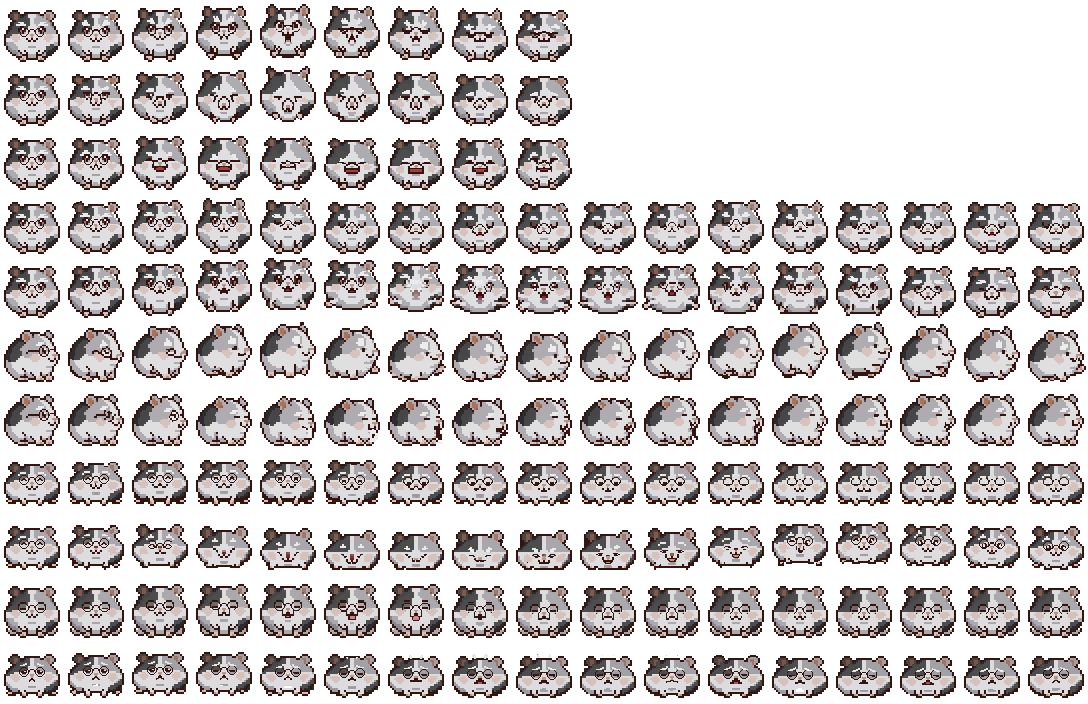
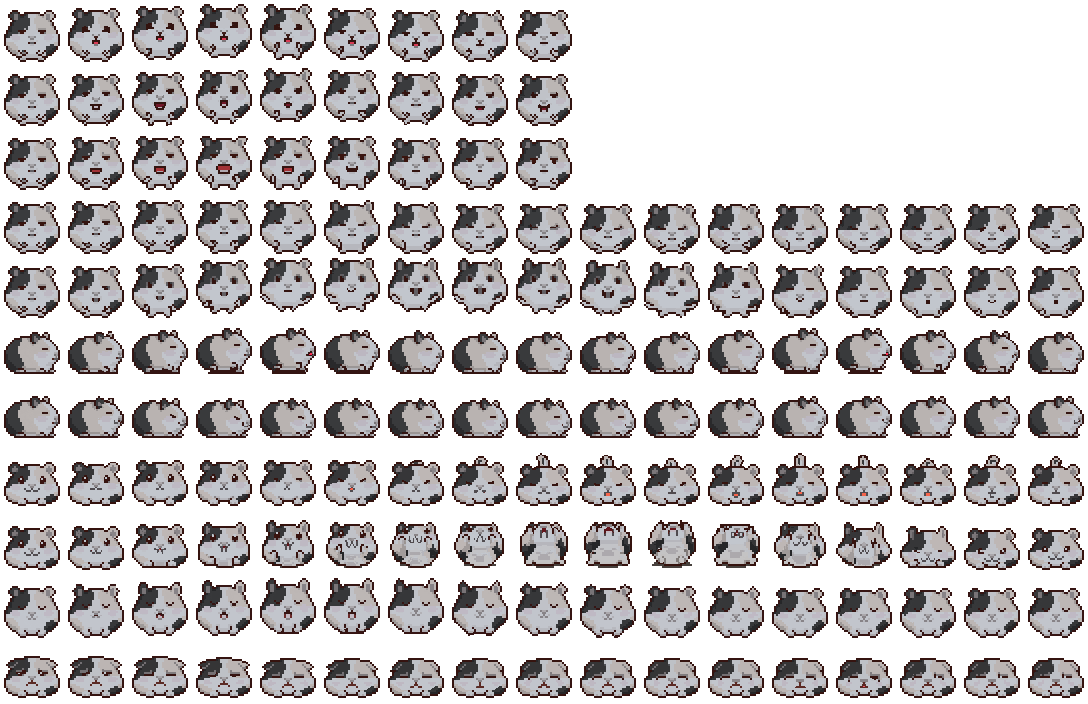
Старички: седые копии взрослых (1.27.0) (#85)
Claude-Session: https://claude.ai/code/session_01Xy48j64qLpetrE3qonuyEK

diff --git a/src/render/petMeta.ts b/src/render/petMeta.ts
@@ -27,19 +27,19 @@ export const PET_META: Readonly<Record<string, SheetMeta>> = {
   cat_child: { cell: 64, cols: 17, rows: ['idle', 'sleep', 'eat', 'idle_v3', 'catch_v3', 'walk_v3', 'eat_v3', 'lie_v3', 'roll_v3', 'sleep_v3', 'sad_v3'], feet: 62, left: 6, right: 58, rowInfo: { idle_v3: { feet: 62, left: 8, right: 60, frames: 17 }, catch_v3: { feet: 62, left: 8, right: 60, frames: 17 }, walk_v3: { feet: 62, left: 2, right: 60, frames: 17 }, eat_v3: { feet: 62, left: 0, right: 64, frames: 17 }, lie_v3: { feet: 60, left: 4, right: 60, frames: 17 }, roll_v3: { feet: 60, left: 2, right: 62, frames: 17 }, sleep_v3: { feet: 51, left: 8, right: 56, frames: 17 }, sad_v3: { feet: 60, left: 2, right: 62, frames: 17 } } },
   cat_teen: { cell: 64, cols: 17, rows: ['idle', 'sleep', 'eat', 'idle_v3', 'catch_v3', 'walk_v3', 'eat_v3', 'lie_v3', 'roll_v3', 'sleep_v3', 'sad_v3'], feet: 63, left: 10, right: 58, rowInfo: { idle_v3: { feet: 63, left: 13, right: 56, frames: 17 }, catch_v3: { feet: 63, left: 7, right: 59, frames: 17 }, walk_v3: { feet: 56, left: 2, right: 61, frames: 17 }, eat_v3: { feet: 56, left: 2, right: 64, frames: 17 }, lie_v3: { feet: 52, left: 2, right: 63, frames: 17 }, roll_v3: { feet: 52, left: 1, right: 64, frames: 17 }, sleep_v3: { feet: 55, left: 4, right: 60, frames: 17 }, sad_v3: { feet: 52, left: 2, right: 63, frames: 17 } } },
   cat_adultNaughty: { cell: 64, cols: 17, rows: ['idle', 'sleep', 'eat', 'idle_v3', 'catch_v3', 'walk_v3', 'eat_v3', 'lie_v3', 'roll_v3', 'sleep_v3', 'sad_v3'], feet: 62, left: 2, right: 62, rowInfo: { idle_v3: { feet: 62, left: 2, right: 62, frames: 17 }, catch_v3: { feet: 62, left: 2, right: 60, frames: 17 }, walk_v3: { feet: 62, left: 2, right: 60, frames: 17 }, eat_v3: { feet: 62, left: 2, right: 62, frames: 17 }, lie_v3: { feet: 56, left: 4, right: 62, frames: 17 }, roll_v3: { feet: 56, left: 4, right: 64, frames: 17 }, sleep_v3: { feet: 58, left: 2, right: 62, frames: 17 }, sad_v3: { feet: 56, left: 2, right: 64, frames: 17 } } },
-  cat_elder: { cell: 64, cols: 17, rows: ['idle', 'sleep', 'eat', 'idle_v3', 'catch_v3', 'walk_v3', 'eat_v3', 'lie_v3', 'roll_v3', 'sleep_v3', 'sad_v3'], feet: 62, left: 2, right: 58, rowInfo: { idle_v3: { feet: 62, left: 2, right: 62, frames: 17 }, catch_v3: { feet: 62, left: 0, right: 60, frames: 17 }, walk_v3: { feet: 60, left: 4, right: 60, frames: 17 }, eat_v3: { feet: 60, left: 2, right: 60, frames: 17 }, lie_v3: { feet: 54, left: 2, right: 62, frames: 17 }, roll_v3: { feet: 54, left: 2, right: 64, frames: 17 }, sleep_v3: { feet: 56, left: 2, right: 62, frames: 17 }, sad_v3: { feet: 54, left: 2, right: 63, frames: 17 } } },
+  cat_elder: { cell: 64, cols: 17, rows: ['idle', 'sleep', 'eat', 'idle_v3', 'catch_v3', 'walk_v3', 'eat_v3', 'lie_v3', 'roll_v3', 'sleep_v3', 'sad_v3'], feet: 62, left: 2, right: 62, rowInfo: { idle_v3: { feet: 62, left: 2, right: 62, frames: 17 }, catch_v3: { feet: 62, left: 0, right: 62, frames: 17 }, walk_v3: { feet: 62, left: 2, right: 60, frames: 17 }, eat_v3: { feet: 62, left: 0, right: 64, frames: 17 }, lie_v3: { feet: 54, left: 2, right: 64, frames: 17 }, roll_v3: { feet: 54, left: 2, right: 62, frames: 17 }, sleep_v3: { feet: 54, left: 2, right: 60, frames: 17 }, sad_v3: { feet: 54, left: 2, right: 64, frames: 17 } } },
   cat_adultNormal: { cell: 64, cols: 17, rows: ['idle', 'sleep', 'eat', 'idle_v3', 'catch_v3', 'walk_v3', 'eat_v3', 'lie_v3', 'roll_v3', 'sleep_v3', 'sad_v3'], feet: 62, left: 2, right: 62, rowInfo: { idle_v3: { feet: 62, left: 2, right: 62, frames: 17 }, catch_v3: { feet: 62, left: 0, right: 62, frames: 17 }, walk_v3: { feet: 62, left: 2, right: 60, frames: 17 }, eat_v3: { feet: 62, left: 0, right: 64, frames: 17 }, lie_v3: { feet: 54, left: 2, right: 64, frames: 17 }, roll_v3: { feet: 54, left: 2, right: 62, frames: 17 }, sleep_v3: { feet: 54, left: 2, right: 60, frames: 17 }, sad_v3: { feet: 54, left: 2, right: 64, frames: 17 } } },
   blob_baby: { cell: 64, cols: 17, rows: ['idle', 'sleep', 'eat', 'idle_v3', 'catch_v3', 'walk_v3', 'eat_v3', 'lie_v3', 'roll_v3', 'sleep_v3', 'sad_v3'], feet: 52, left: 17, right: 47, rowInfo: { idle_v3: { feet: 52, left: 18, right: 46, frames: 17 }, catch_v3: { feet: 52, left: 13, right: 49, frames: 17 }, walk_v3: { feet: 52, left: 12, right: 52, frames: 17 }, eat_v3: { feet: 52, left: 11, right: 54, frames: 17 }, lie_v3: { feet: 52, left: 14, right: 48, frames: 17 }, roll_v3: { feet: 52, left: 14, right: 48, frames: 17 }, sleep_v3: { feet: 52, left: 18, right: 46, frames: 17 }, sad_v3: { feet: 52, left: 14, right: 48, frames: 17 } } },
   blob_child: { cell: 64, cols: 17, rows: ['idle', 'sleep', 'eat', 'idle_v3', 'catch_v3', 'walk_v3', 'eat_v3', 'lie_v3', 'roll_v3', 'sleep_v3', 'sad_v3'], feet: 52, left: 10, right: 54, rowInfo: { idle_v3: { feet: 52, left: 14, right: 50, frames: 17 }, catch_v3: { feet: 54, left: 9, right: 54, frames: 17 }, walk_v3: { feet: 52, left: 10, right: 54, frames: 17 }, eat_v3: { feet: 52, left: 8, right: 64, frames: 17 }, lie_v3: { feet: 52, left: 12, right: 52, frames: 17 }, roll_v3: { feet: 52, left: 10, right: 54, frames: 17 }, sleep_v3: { feet: 52, left: 12, right: 52, frames: 17 }, sad_v3: { feet: 52, left: 10, right: 54, frames: 17 } } },
   blob_teen: { cell: 64, cols: 17, rows: ['idle', 'sleep', 'eat', 'idle_v3', 'catch_v3', 'walk_v3', 'eat_v3', 'lie_v3', 'roll_v3', 'sleep_v3', 'sad_v3'], feet: 62, left: 10, right: 54, rowInfo: { idle_v3: { feet: 62, left: 10, right: 54, frames: 17 }, catch_v3: { feet: 62, left: 8, right: 56, frames: 17 }, walk_v3: { feet: 62, left: 8, right: 56, frames: 17 }, eat_v3: { feet: 62, left: 8, right: 58, frames: 17 }, lie_v3: { feet: 56, left: 8, right: 56, frames: 17 }, roll_v3: { feet: 57, left: 6, right: 58, frames: 17 }, sleep_v3: { feet: 54, left: 6, right: 58, frames: 17 }, sad_v3: { feet: 56, left: 6, right: 58, frames: 17 } } },
   blob_adultNaughty: { cell: 64, cols: 17, rows: ['idle', 'sleep', 'eat', 'idle_v3', 'catch_v3', 'walk_v3', 'eat_v3', 'lie_v3', 'roll_v3', 'sleep_v3', 'sad_v3'], feet: 62, left: 4, right: 60, rowInfo: { idle_v3: { feet: 62, left: 4, right: 60, frames: 17 }, catch_v3: { feet: 62, left: 2, right: 62, frames: 17 }, walk_v3: { feet: 62, left: 4, right: 60, frames: 17 }, eat_v3: { feet: 62, left: 4, right: 60, frames: 17 }, lie_v3: { feet: 58, left: 2, right: 62, frames: 17 }, roll_v3: { feet: 58, left: 2, right: 62, frames: 17 }, sleep_v3: { feet: 58, left: 4, right: 60, frames: 17 }, sad_v3: { feet: 58, left: 2, right: 62, frames: 17 } } },
-  blob_elder: { cell: 64, cols: 17, rows: ['idle', 'sleep', 'eat', 'idle_v3', 'catch_v3', 'walk_v3', 'eat_v3', 'lie_v3', 'roll_v3', 'sleep_v3', 'sad_v3'], feet: 62, left: 4, right: 60, rowInfo: { idle_v3: { feet: 62, left: 4, right: 60, frames: 17 }, catch_v3: { feet: 62, left: 2, right: 62, frames: 17 }, walk_v3: { feet: 62, left: 4, right: 62, frames: 17 }, eat_v3: { feet: 62, left: 4, right: 60, frames: 17 }, lie_v3: { feet: 58, left: 4, right: 60, frames: 17 }, roll_v3: { feet: 58, left: 4, right: 60, frames: 17 }, sleep_v3: { feet: 62, left: 4, right: 60, frames: 17 }, sad_v3: { feet: 58, left: 4, right: 60, frames: 17 } } },
+  blob_elder: { cell: 64, cols: 17, rows: ['idle', 'sleep', 'eat', 'idle_v3', 'catch_v3', 'walk_v3', 'eat_v3', 'lie_v3', 'roll_v3', 'sleep_v3', 'sad_v3'], feet: 62, left: 4, right: 60, rowInfo: { idle_v3: { feet: 62, left: 4, right: 60, frames: 17 }, catch_v3: { feet: 62, left: 4, right: 60, frames: 17 }, walk_v3: { feet: 54, left: 4, right: 60, frames: 17 }, eat_v3: { feet: 54, left: 4, right: 60, frames: 17 }, lie_v3: { feet: 58, left: 4, right: 60, frames: 17 }, roll_v3: { feet: 58, left: 4, right: 60, frames: 17 }, sleep_v3: { feet: 62, left: 4, right: 60, frames: 17 }, sad_v3: { feet: 58, left: 4, right: 60, frames: 17 } } },
   blob_adultNormal: { cell: 64, cols: 17, rows: ['idle', 'sleep', 'eat', 'idle_v3', 'catch_v3', 'walk_v3', 'eat_v3', 'lie_v3', 'roll_v3', 'sleep_v3', 'sad_v3'], feet: 62, left: 4, right: 60, rowInfo: { idle_v3: { feet: 62, left: 4, right: 60, frames: 17 }, catch_v3: { feet: 62, left: 4, right: 60, frames: 17 }, walk_v3: { feet: 54, left: 4, right: 60, frames: 17 }, eat_v3: { feet: 54, left: 4, right: 60, frames: 17 }, lie_v3: { feet: 58, left: 4, right: 60, frames: 17 }, roll_v3: { feet: 58, left: 4, right: 60, frames: 17 }, sleep_v3: { feet: 62, left: 4, right: 60, frames: 17 }, sad_v3: { feet: 58, left: 4, right: 60, frames: 17 } } },
   dog_baby: { cell: 64, cols: 17, rows: ['idle', 'sleep', 'eat', 'idle_v3', 'catch_v3', 'walk_v3', 'eat_v3', 'lie_v3', 'roll_v3', 'sleep_v3', 'sad_v3'], feet: 64, left: 2, right: 62, rowInfo: { idle_v3: { feet: 64, left: 4, right: 60, frames: 17 }, catch_v3: { feet: 64, left: 4, right: 60, frames: 17 }, walk_v3: { feet: 56, left: 4, right: 60, frames: 17 }, eat_v3: { feet: 56, left: 4, right: 58, frames: 17 }, lie_v3: { feet: 53, left: 10, right: 56, frames: 17 }, roll_v3: { feet: 53, left: 6, right: 57, frames: 17 }, sleep_v3: { feet: 52, left: 6, right: 58, frames: 17 }, sad_v3: { feet: 50, left: 8, right: 58, frames: 17 } } },
   dog_child: { cell: 64, cols: 17, rows: ['idle', 'sleep', 'eat', 'idle_v3', 'catch_v3', 'walk_v3', 'eat_v3', 'lie_v3', 'roll_v3', 'sleep_v3', 'sad_v3'], feet: 55, left: 11, right: 53, rowInfo: { idle_v3: { feet: 55, left: 13, right: 52, frames: 17 }, catch_v3: { feet: 55, left: 12, right: 52, frames: 17 }, walk_v3: { feet: 55, left: 8, right: 55, frames: 17 }, eat_v3: { feet: 55, left: 7, right: 57, frames: 17 }, lie_v3: { feet: 54, left: 7, right: 56, frames: 17 }, roll_v3: { feet: 54, left: 6, right: 59, frames: 17 }, sleep_v3: { feet: 48, left: 7, right: 56, frames: 17 }, sad_v3: { feet: 54, left: 6, right: 54, frames: 17 } } },
   dog_teen: { cell: 64, cols: 17, rows: ['idle', 'sleep', 'eat', 'idle_v3', 'catch_v3', 'walk_v3', 'eat_v3', 'lie_v3', 'roll_v3', 'sleep_v3', 'sad_v3'], feet: 64, left: 8, right: 56, rowInfo: { idle_v3: { feet: 64, left: 8, right: 56, frames: 17 }, catch_v3: { feet: 64, left: 6, right: 58, frames: 17 }, walk_v3: { feet: 60, left: 0, right: 62, frames: 17 }, eat_v3: { feet: 60, left: 0, right: 64, frames: 17 }, lie_v3: { feet: 54, left: 4, right: 62, frames: 17 }, roll_v3: { feet: 54, left: 2, right: 62, frames: 17 }, sleep_v3: { feet: 56, left: 4, right: 60, frames: 17 }, sad_v3: { feet: 54, left: 4, right: 62, frames: 17 } } },
   dog_adultNaughty: { cell: 64, cols: 17, rows: ['idle', 'sleep', 'eat', 'idle_v3', 'catch_v3', 'walk_v3', 'eat_v3', 'lie_v3', 'roll_v3', 'sleep_v3', 'sad_v3'], feet: 64, left: 2, right: 62, rowInfo: { idle_v3: { feet: 64, left: 2, right: 62, frames: 17 }, catch_v3: { feet: 64, left: 2, right: 62, frames: 17 }, walk_v3: { feet: 60, left: 4, right: 58, frames: 17 }, eat_v3: { feet: 60, left: 2, right: 64, frames: 17 }, lie_v3: { feet: 56, left: 2, right: 64, frames: 17 }, roll_v3: { feet: 56, left: 2, right: 62, frames: 17 }, sleep_v3: { feet: 54, left: 4, right: 58, frames: 17 }, sad_v3: { feet: 56, left: 2, right: 62, frames: 17 } } },
-  dog_elder: { cell: 64, cols: 17, rows: ['idle', 'sleep', 'eat', 'idle_v3', 'catch_v3', 'walk_v3', 'eat_v3', 'lie_v3', 'roll_v3', 'sleep_v3', 'sad_v3'], feet: 64, left: 2, right: 62, rowInfo: { idle_v3: { feet: 64, left: 2, right: 62, frames: 17 }, catch_v3: { feet: 64, left: 2, right: 62, frames: 17 }, walk_v3: { feet: 58, left: 4, right: 60, frames: 17 }, eat_v3: { feet: 58, left: 4, right: 60, frames: 17 }, lie_v3: { feet: 57, left: 6, right: 57, frames: 17 }, roll_v3: { feet: 57, left: 6, right: 59, frames: 17 }, sleep_v3: { feet: 51, left: 7, right: 57, frames: 17 }, sad_v3: { feet: 57, left: 6, right: 59, frames: 17 } } },
+  dog_elder: { cell: 64, cols: 17, rows: ['idle', 'sleep', 'eat', 'idle_v3', 'catch_v3', 'walk_v3', 'eat_v3', 'lie_v3', 'roll_v3', 'sleep_v3', 'sad_v3'], feet: 64, left: 2, right: 62, rowInfo: { idle_v3: { feet: 64, left: 2, right: 62, frames: 17 }, catch_v3: { feet: 64, left: 2, right: 62, frames: 17 }, walk_v3: { feet: 62, left: 2, right: 60, frames: 17 }, eat_v3: { feet: 62, left: 2, right: 64, frames: 17 }, lie_v3: { feet: 56, left: 8, right: 58, frames: 17 }, roll_v3: { feet: 56, left: 6, right: 60, frames: 17 }, sleep_v3: { feet: 54, left: 4, right: 62, frames: 17 }, sad_v3: { feet: 50, left: 2, right: 62, frames: 17 } } },
   dog_adultNormal: { cell: 64, cols: 17, rows: ['idle', 'sleep', 'eat', 'idle_v3', 'catch_v3', 'walk_v3', 'eat_v3', 'lie_v3', 'roll_v3', 'sleep_v3', 'sad_v3'], feet: 64, left: 2, right: 62, rowInfo: { idle_v3: { feet: 64, left: 2, right: 62, frames: 17 }, catch_v3: { feet: 64, left: 2, right: 62, frames: 17 }, walk_v3: { feet: 62, left: 2, right: 60, frames: 17 }, eat_v3: { feet: 62, left: 2, right: 64, frames: 17 }, lie_v3: { feet: 56, left: 8, right: 58, frames: 17 }, roll_v3: { feet: 56, left: 6, right: 60, frames: 17 }, sleep_v3: { feet: 54, left: 4, right: 62, frames: 17 }, sad_v3: { feet: 50, left: 2, right: 62, frames: 17 } } },
   props_egg: { cell: 64, cols: 11, rows: ['wobble9_cracked_grave'], feet: 62, left: 7, right: 57 },
   butterfly: { cell: 32, cols: 5, rows: ['flap'], feet: 29, left: 1, right: 31 },

diff --git a/src/version.ts b/src/version.ts
@@ -1,2 +1,2 @@
 /** Версия игры — показывается в настройках. Меняется вместе с package.json. */
-export const APP_VERSION = '1.26.0';
+export const APP_VERSION = '1.27.0';

diff --git a/scripts/pets-elder.py b/scripts/pets-elder.py
@@ -1,0 +1,43 @@
+#!/usr/bin/env python3
+"""Старички = взрослые (форма «обычная») с седой шерстью: берёт листы *_adultNormal и обесцвечивает мех.
+Запуск после pets-build.py и pets-prune.py: python3 scripts/pets-elder.py  (пишет art/pets/*_elder.png, meta.json, src/render/petMeta.ts)."""
+import colorsys, json, os, re
+from PIL import Image
+
+ROOT = os.path.dirname(os.path.dirname(os.path.abspath(__file__)))
+DIR = os.path.join(ROOT, 'art', 'pets')
+SPECIES = ['cat', 'dog', 'blob']
+SRC_FORM = 'adultNormal'
+
+def grey(px):
+    r, g, b, a = px
+    if a == 0:
+        return px
+    h, s, v = colorsys.rgb_to_hsv(r / 255, g / 255, b / 255)
+    if v < 0.28 or (0.5 < h < 0.75 and s > 0.35) or ((h < 0.04 or h > 0.95) and s > 0.6):
+        return px                                    # контуры, глаза, ошейник и бубенчик не трогаем
+    s *= 0.14                                        # почти без цвета
+    v = v * 0.80 if v > 0.6 else v * 0.90            # светлый мех становится серым, а не белым
+    r, g, b = colorsys.hsv_to_rgb(h, s, v)
+    # лёгкий холодный оттенок седины
+    return (int(r * 255 * 0.97), int(g * 255 * 0.99), min(255, int(b * 255 * 1.04)), a)
+
+def main():
+    meta = json.load(open(os.path.join(DIR, 'meta.json')))
+    for sp in SPECIES:
+        im = Image.open(os.path.join(DIR, f'{sp}_{SRC_FORM}.png')).convert('RGBA')
+        px = im.load()
+        for y in range(im.height):
+            for x in range(im.width):
+                px[x, y] = grey(px[x, y])
+        im.save(os.path.join(DIR, f'{sp}_elder.png'), optimize=True)
+        meta[f'{sp}_elder'] = json.loads(json.dumps(meta[f'{sp}_{SRC_FORM}']))
+    json.dump(meta, open(os.path.join(DIR, 'meta.json'), 'w'), ensure_ascii=False, indent=1)
+    path = os.path.join(ROOT, 'src', 'render', 'petMeta.ts')
+    ts = open(path).read()
+    for sp in SPECIES:
+        src = re.search(rf'^  {sp}_{SRC_FORM}: (.*),$', ts, re.M).group(1)
+        ts = re.sub(rf'^  {sp}_elder: .*,$', lambda m: f'  {sp}_elder: {src},', ts, flags=re.M)
+    open(path, 'w').write(ts)
+
+main()
